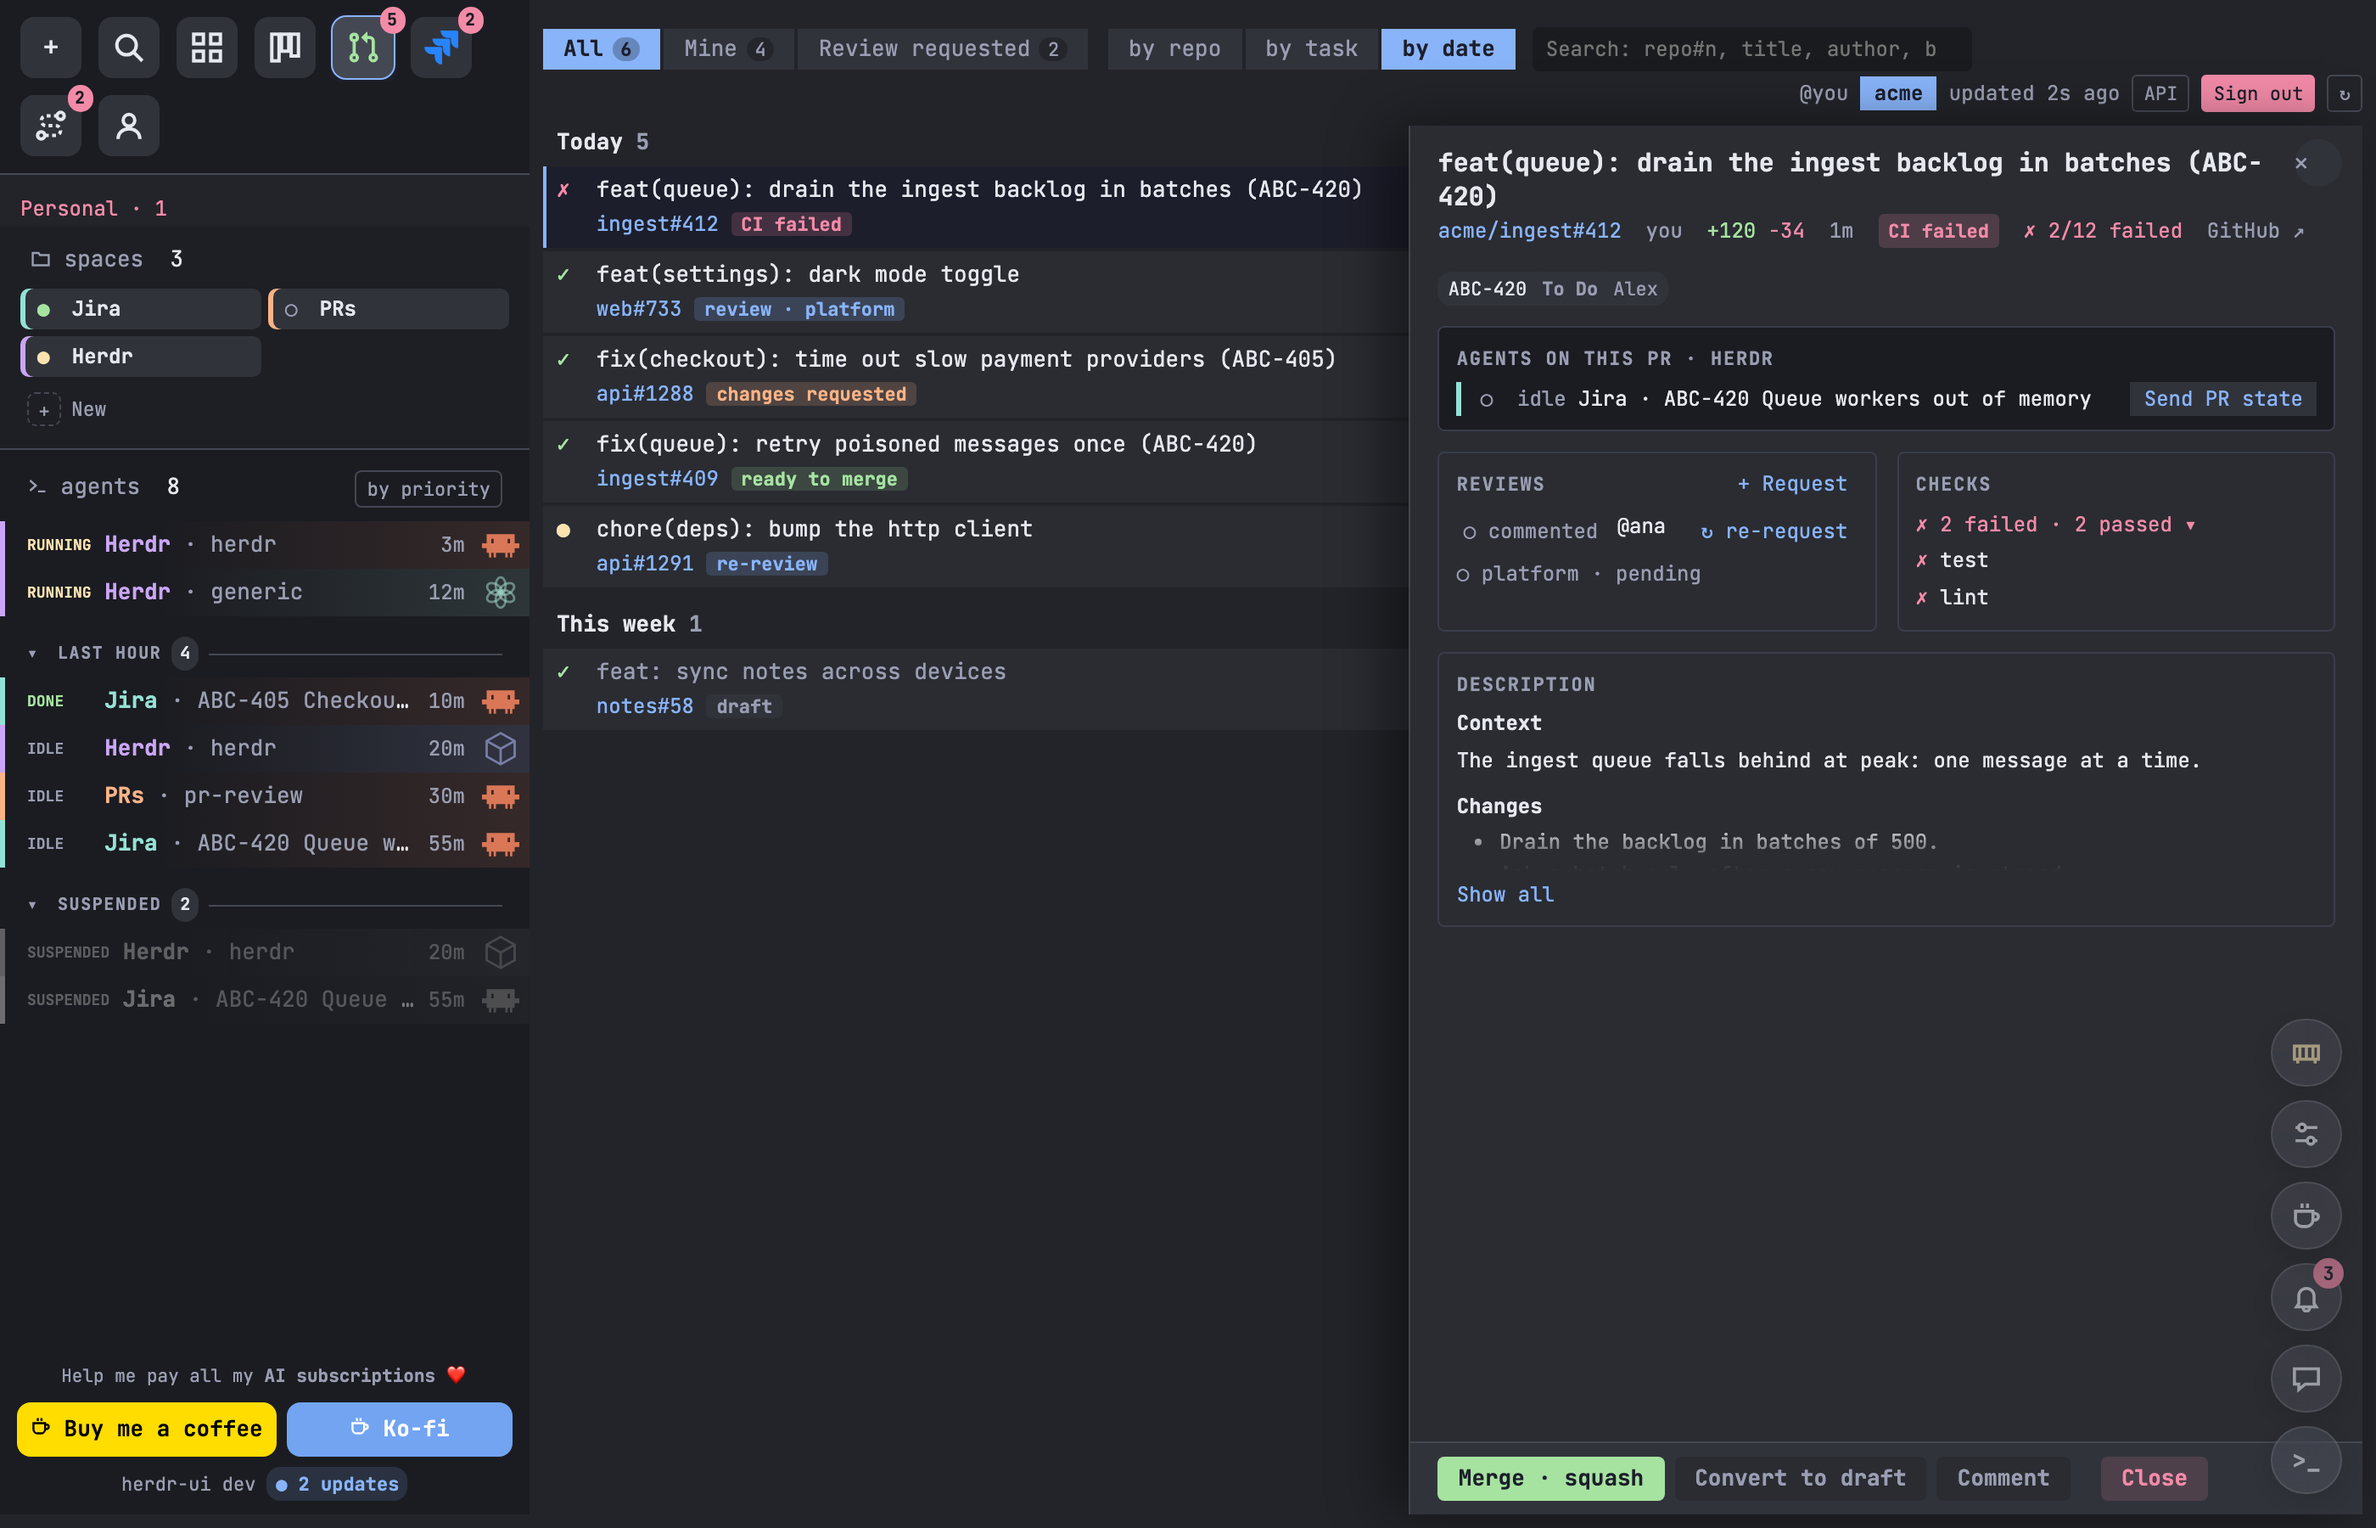
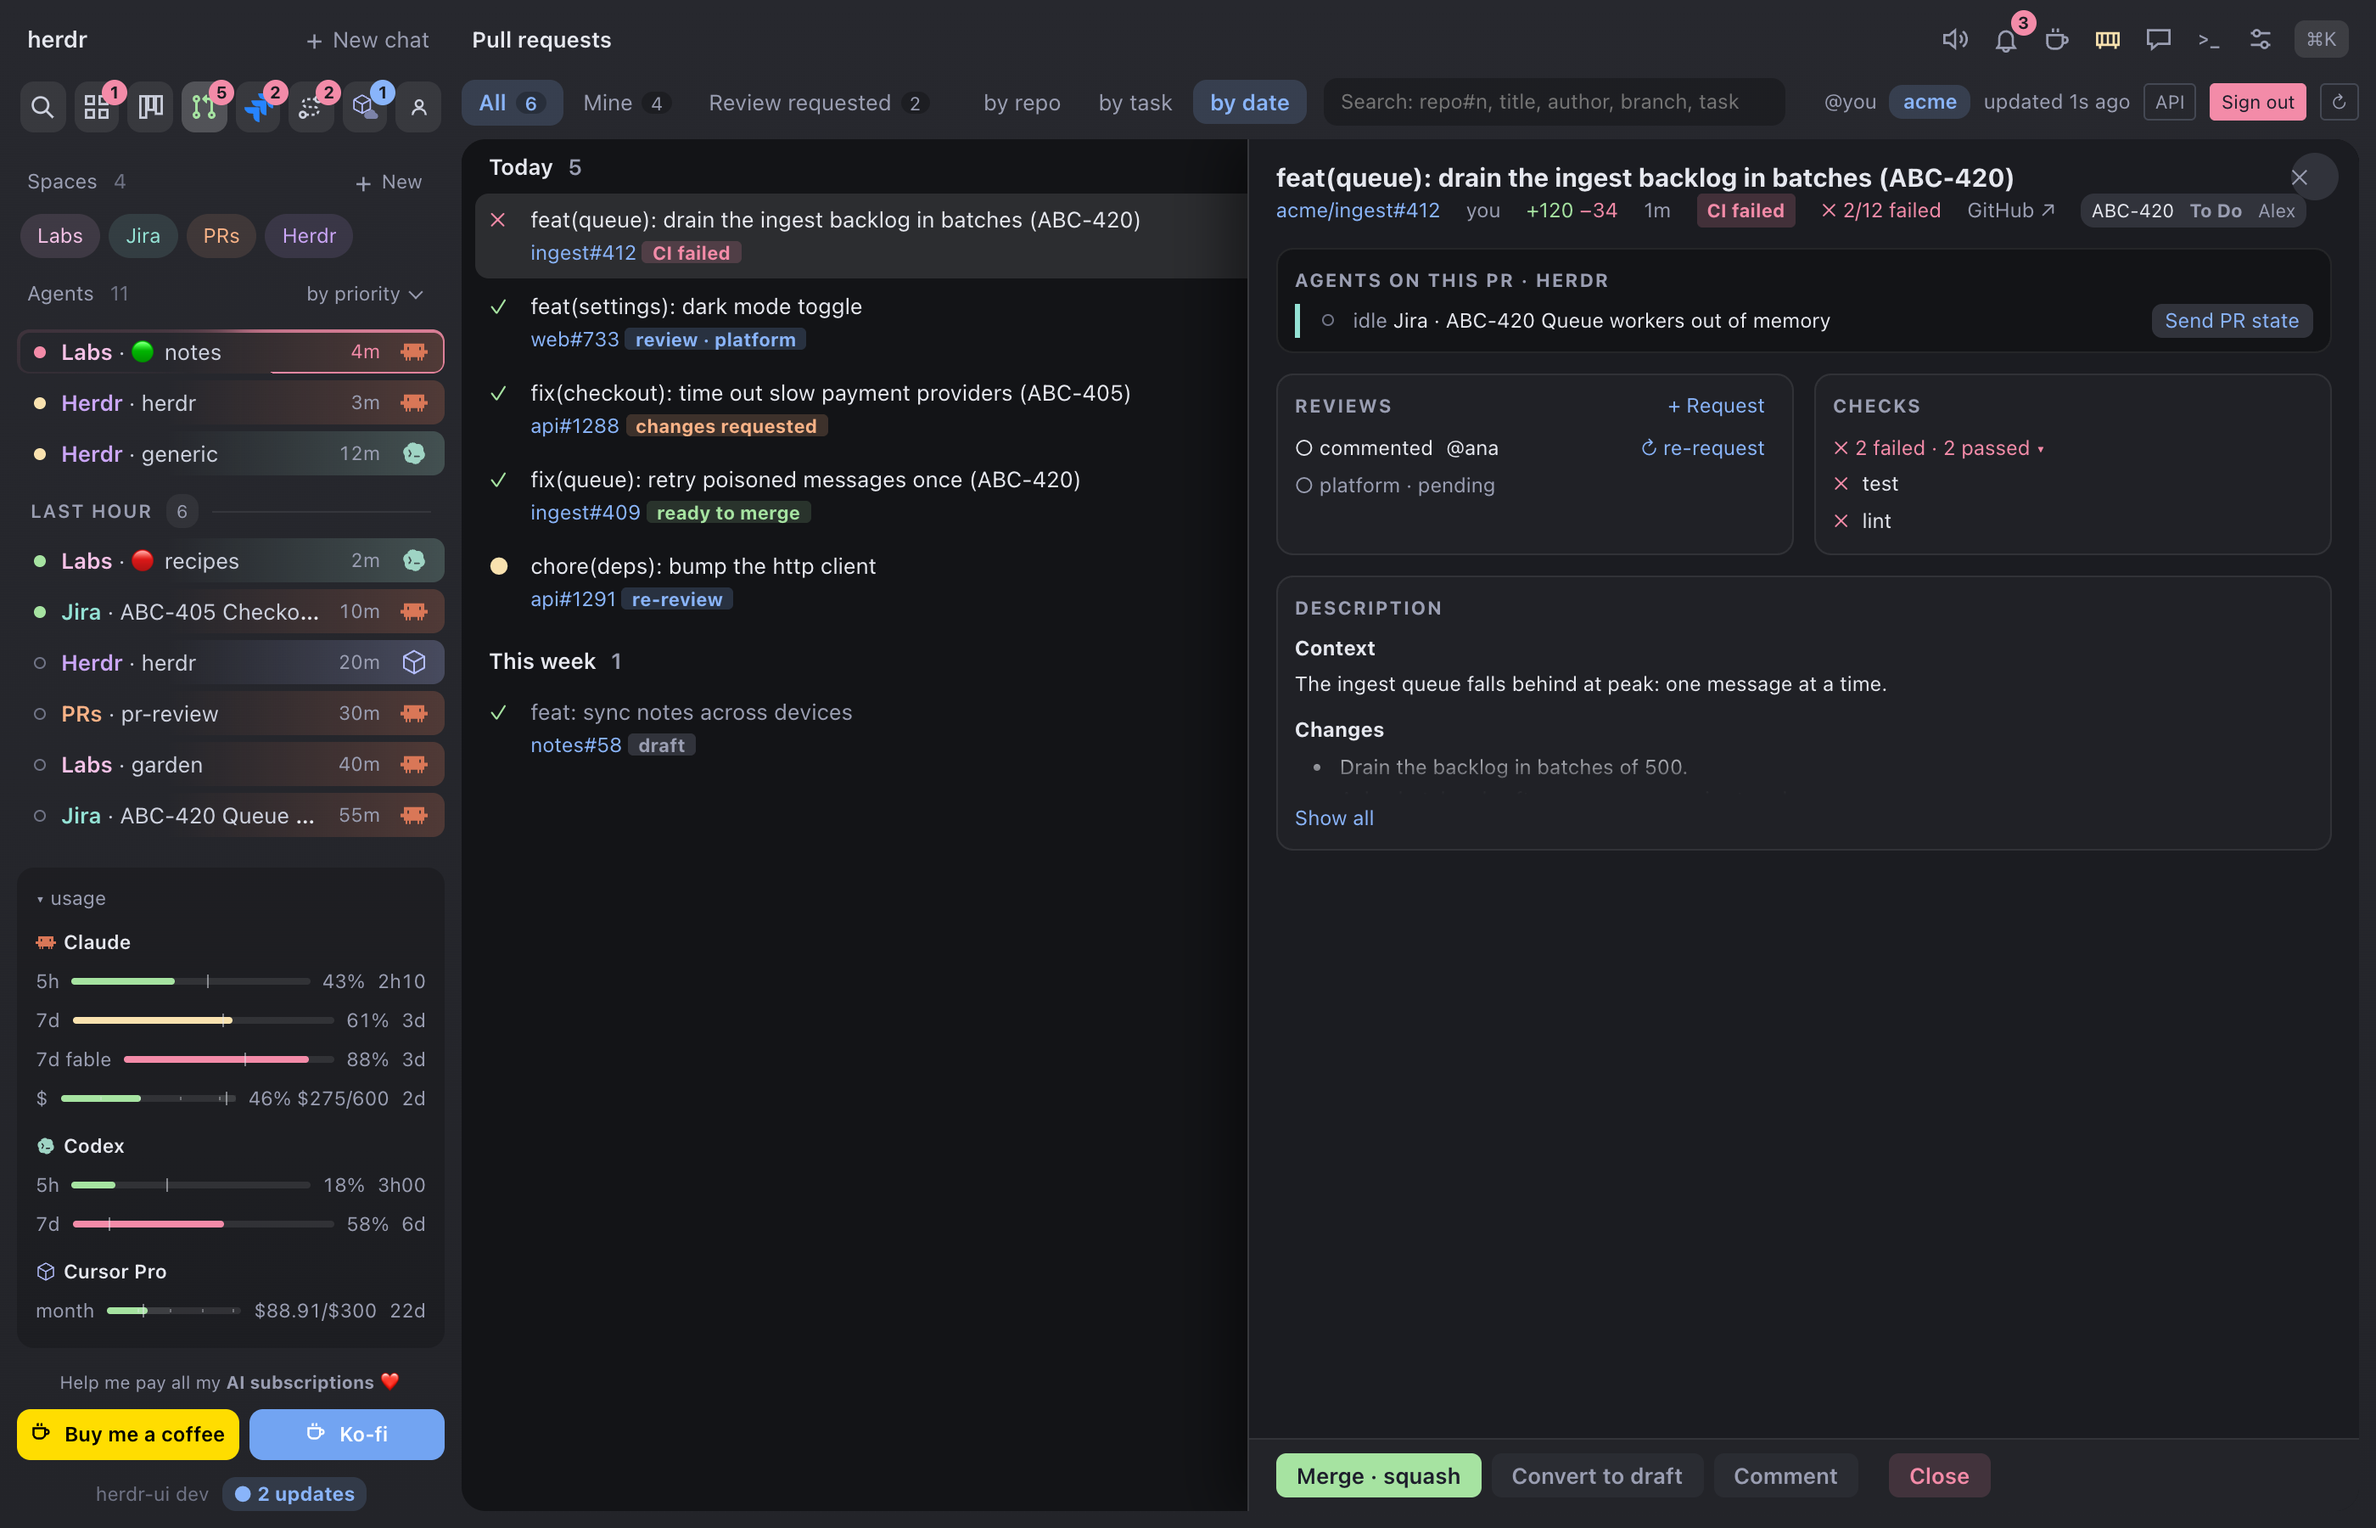
docs(herdr-ui): v0.32.0 screenshots of the new look, a tab view in the overview section
Screenshots retaken from the fixture with sample data: one profile, usage of Claude, Codex and Cursor in the sidebar. The Profiles card no longer names Work and Personal.

diff --git a/herdr-ui/index.html b/herdr-ui/index.html
@@ -180,7 +180,7 @@ footer a:hover { color:var(--fg); }
       </div>
       <div class="stage">
         <div class="tilt">
-          <div class="frame"><div class="bar"><i></i><i></i><i></i><span>herdr-ui · Overview</span></div><img src="overview.png" width="2800" height="1800" alt="herdr-ui overview: a sidebar with Pull requests, Tasks, spaces and agents beside two live terminals"></div>
+          <div class="frame"><div class="bar"><i></i><i></i><i></i><span>herdr-ui · Overview</span></div><img src="overview.png" width="2800" height="1800" alt="herdr-ui overview: a sidebar with spaces, agents and the usage of Claude, Codex and Cursor beside two live terminals"></div>
         </div>
         <div class="float notif"><div class="ic">🐑<em>1</em></div><div><b>Troubleshooting · checkout 5xx spike</b><span>claude needs you</span></div></div>
       </div>
@@ -201,13 +201,18 @@ footer a:hover { color:var(--fg); }
         <div class="points">
           <div style="--c:var(--pink)"><b>It picks for you</b>Blocked agents first, then working and just finished ones.</div>
           <div style="--c:var(--cyan)"><b>Pin or hide</b>Pinned agents stay; hidden ones come back when they block.</div>
-          <div style="--c:var(--orange)"><b>A compact sidebar</b>New, Search, the views and Profile as icons; spaces as tiles; then the agents.</div>
-          <div style="--c:var(--green)"><b>Limits under each Claude pane</b>Context, model, cache and account limits, with reset times.</div>
+          <div style="--c:var(--orange)"><b>A compact sidebar</b>Search and the views as icons, spaces as pills in their colour, one line per agent.</div>
+          <div style="--c:var(--green)"><b>Usage of every agent</b>Claude, Codex and Cursor limits with reset times in the sidebar; context, model and cache under each pane.</div>
+          <div style="--c:var(--pink)"><b>Tabs that show the cache</b>A line on a tab shortens as the prompt cache of its Claude session runs out; a green light marks Keep running.</div>
           <div style="--c:var(--orange)"><b>Idle sessions sleep</b>An idle Claude or Cursor session closes after an hour; Resume reopens it. One running a command stays open, and ∞ keeps any session open.</div>
           <div style="--c:var(--cyan)"><b>Fork a session</b>Continue a Claude conversation in a new pane; forks nest under their parent.</div>
         </div>
       </div>
-      <div class="frame"><div class="bar"><i></i><i></i><i></i><span>herdr-ui · Overview</span></div><img src="overview.png" width="2800" height="1800" alt="The overview: two working agents side by side, with Pull requests and Tasks in the sidebar" loading="lazy"></div>
+      <div class="tabs" role="tablist" aria-label="Overview or one tab">
+        <button role="tab" aria-selected="true" data-src="overview.png" data-alt="The overview: an agent that waits on an answer and a working one side by side, with spaces, agents and usage in the sidebar">Overview</button>
+        <button role="tab" aria-selected="false" data-src="tab.png" data-alt="One tab of a space: three panes, the tab joined to the panel with its cache line on top">A tab</button>
+      </div>
+      <div class="frame"><div class="bar"><i></i><i></i><i></i><span>herdr-ui · Overview</span></div><img class="swap" src="overview.png" width="2800" height="1800" alt="The overview: an agent that waits on an answer and a working one side by side, with spaces, agents and usage in the sidebar" loading="lazy"></div>
     </div>
   </section>
 
@@ -299,7 +304,7 @@ footer a:hover { color:var(--fg); }
           <div style="--c:var(--orange)"><b>Your folders</b><code>~/repos</code> or any folder, set in Settings.</div>
         </div>
       </div>
-      <div class="frame"><div class="bar"><i></i><i></i><i></i><span>herdr-ui · ⌘K</span></div><img src="palette.png" width="2800" height="1800" alt="⌘K search over the overview: chats, a Jira task and two pull requests in aligned sections" loading="lazy"></div>
+      <div class="frame"><div class="bar"><i></i><i></i><i></i><span>herdr-ui · ⌘K</span></div><img src="palette.png" width="2800" height="1800" alt="⌘K search over the overview: the chats of every space with their agent and state" loading="lazy"></div>
     </div>
   </section>
 
@@ -332,7 +337,7 @@ footer a:hover { color:var(--fg); }
     <div class="card benefits">
       <div class="rv"><div class="icon"><svg viewBox="0 0 24 24"><path d="M4 17l6-6-6-6"/><path d="M12 19h8"/></svg></div><b>Same session</b><p>Your spaces, tabs and agents, as they are.</p></div>
       <div class="rv" style="--i:1"><div class="icon"><svg viewBox="0 0 24 24"><path d="M21 15a2 2 0 0 1-2 2H7l-4 4V5a2 2 0 0 1 2-2h14a2 2 0 0 1 2 2z"/></svg></div><b>Assistant</b><p>A chat behind <code>&gt;_</code> or ⌘J that runs herdr for you, in plain words.</p></div>
-      <div class="rv" style="--i:2"><div class="icon"><svg viewBox="0 0 24 24"><circle cx="12" cy="8" r="4"/><path d="M4 21c0-4 3.6-7 8-7s8 3 8 7"/></svg></div><b>Profiles</b><p>Work and Personal: each its own spaces and New chat settings.</p></div>
+      <div class="rv" style="--i:2"><div class="icon"><svg viewBox="0 0 24 24"><circle cx="12" cy="8" r="4"/><path d="M4 21c0-4 3.6-7 8-7s8 3 8 7"/></svg></div><b>Profiles</b><p>Separate sets of spaces, each with its own New chat settings.</p></div>
       <div class="rv" style="--i:3"><div class="icon"><svg viewBox="0 0 24 24"><rect x="2" y="6" width="20" height="12" rx="2"/><path d="M6 10h1M10 10h1M14 10h1M18 10h1M7 14h10"/></svg></div><b>Keyboard first</b><p>⌘T, ⌘N, ⌘D, ⌘W and more, each key yours to change; ⌘/ lists them.</p></div>
       <div class="rv"><div class="icon"><svg viewBox="0 0 24 24"><rect x="3" y="4" width="18" height="14" rx="2"/><path d="M8 21h8"/></svg></div><b>Browser or app</b><p>One Go binary, in the browser or as the macOS app.</p></div>
       <div class="rv" style="--i:1"><div class="icon"><svg viewBox="0 0 24 24"><rect x="5" y="11" width="14" height="10" rx="2"/><path d="M8 11V7a4 4 0 0 1 8 0v4"/></svg></div><b>Local only</b><p>Listens on 127.0.0.1; one anonymous daily ping, stats opt-in.</p></div>
